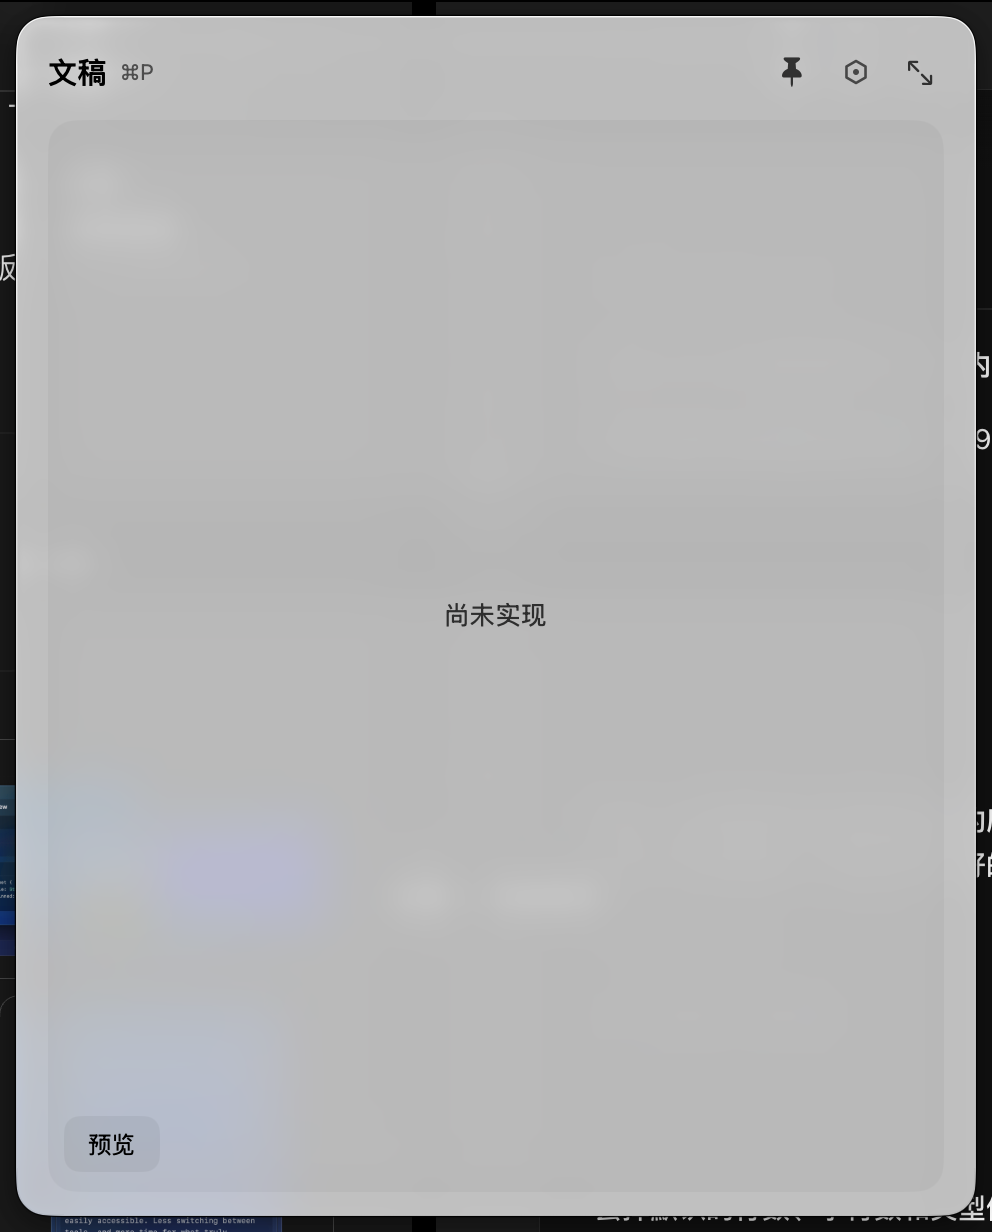
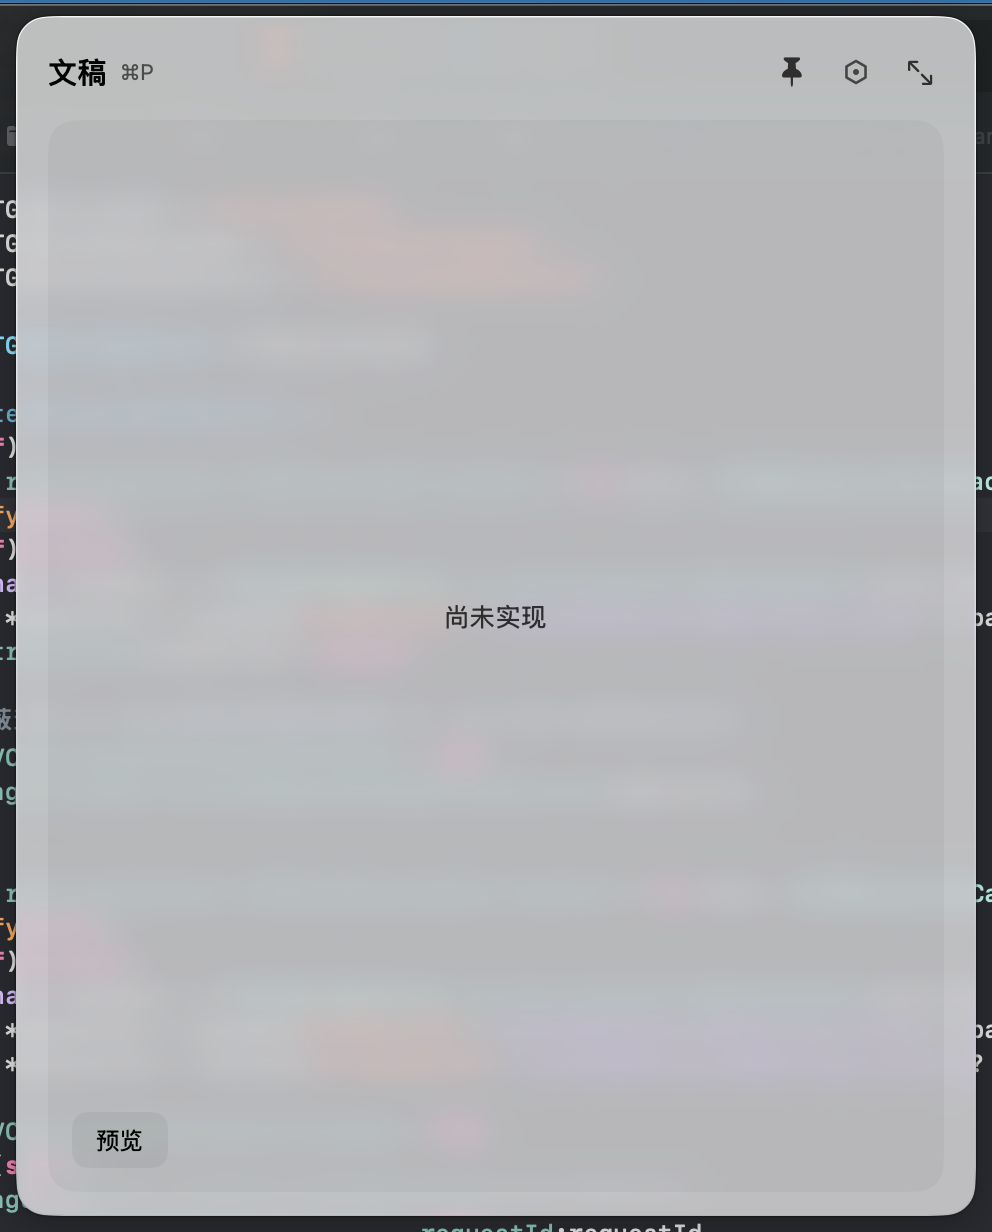
T3.1 补充：统一块内按钮三侧边距并消除编辑器背景分层

diff --git a/Web/src/styles/pages.css b/Web/src/styles/pages.css
@@ -22,13 +22,19 @@
 .source,
 .preview {
   position: absolute;
-  inset: 0 0 46px;
+  inset: 0 0 52px;
   min-width: 0;
   min-height: 0;
 }
 .has-info .source,
 .has-info .preview {
-  bottom: 68px;
+  bottom: 74px;
+}
+.source .cm-editor {
+  background: transparent;
+}
+.source .cm-line {
+  padding: 0;
 }
 .source .cm-content {
   padding: 12px 22px 12px 12px;
@@ -43,7 +49,7 @@
 .page-info {
   position: absolute;
   right: 12px;
-  bottom: 46px;
+  bottom: 52px;
   font:
     11px -apple-system,
     sans-serif;
@@ -72,14 +78,14 @@
 }
 .page-toolbar {
   position: absolute;
-  left: 8px;
-  right: 8px;
-  bottom: 6px;
+  left: 12px;
+  right: 12px;
+  bottom: 12px;
   display: flex;
   align-items: center;
   gap: 8px;
-  height: 36px;
-  flex: 0 0 36px;
+  height: 28px;
+  flex: 0 0 28px;
   min-width: 0;
 }
 .page-actions {
@@ -88,7 +94,7 @@
   display: flex;
   gap: 8px;
   align-items: center;
-  height: 36px;
+  height: 28px;
   overflow-x: auto;
   overflow-y: hidden;
 }

diff --git a/Sources/DevBar/App/PlaceholderPage.swift b/Sources/DevBar/App/PlaceholderPage.swift
@@ -16,9 +16,9 @@ struct PlaceholderPage: View {
           .buttonStyle(DevBarCapsuleStyle(scheme: scheme))
           .disabled(true)
         Spacer()
-      }.frame(height: 36)
-        .padding(.horizontal, 8)
-        .padding(.bottom, 6)
+      }.frame(height: 28)
+        .padding(.horizontal, 12)
+        .padding(.bottom, 12)
     }
     .background(
       DesignTokens.panelInset(scheme),
